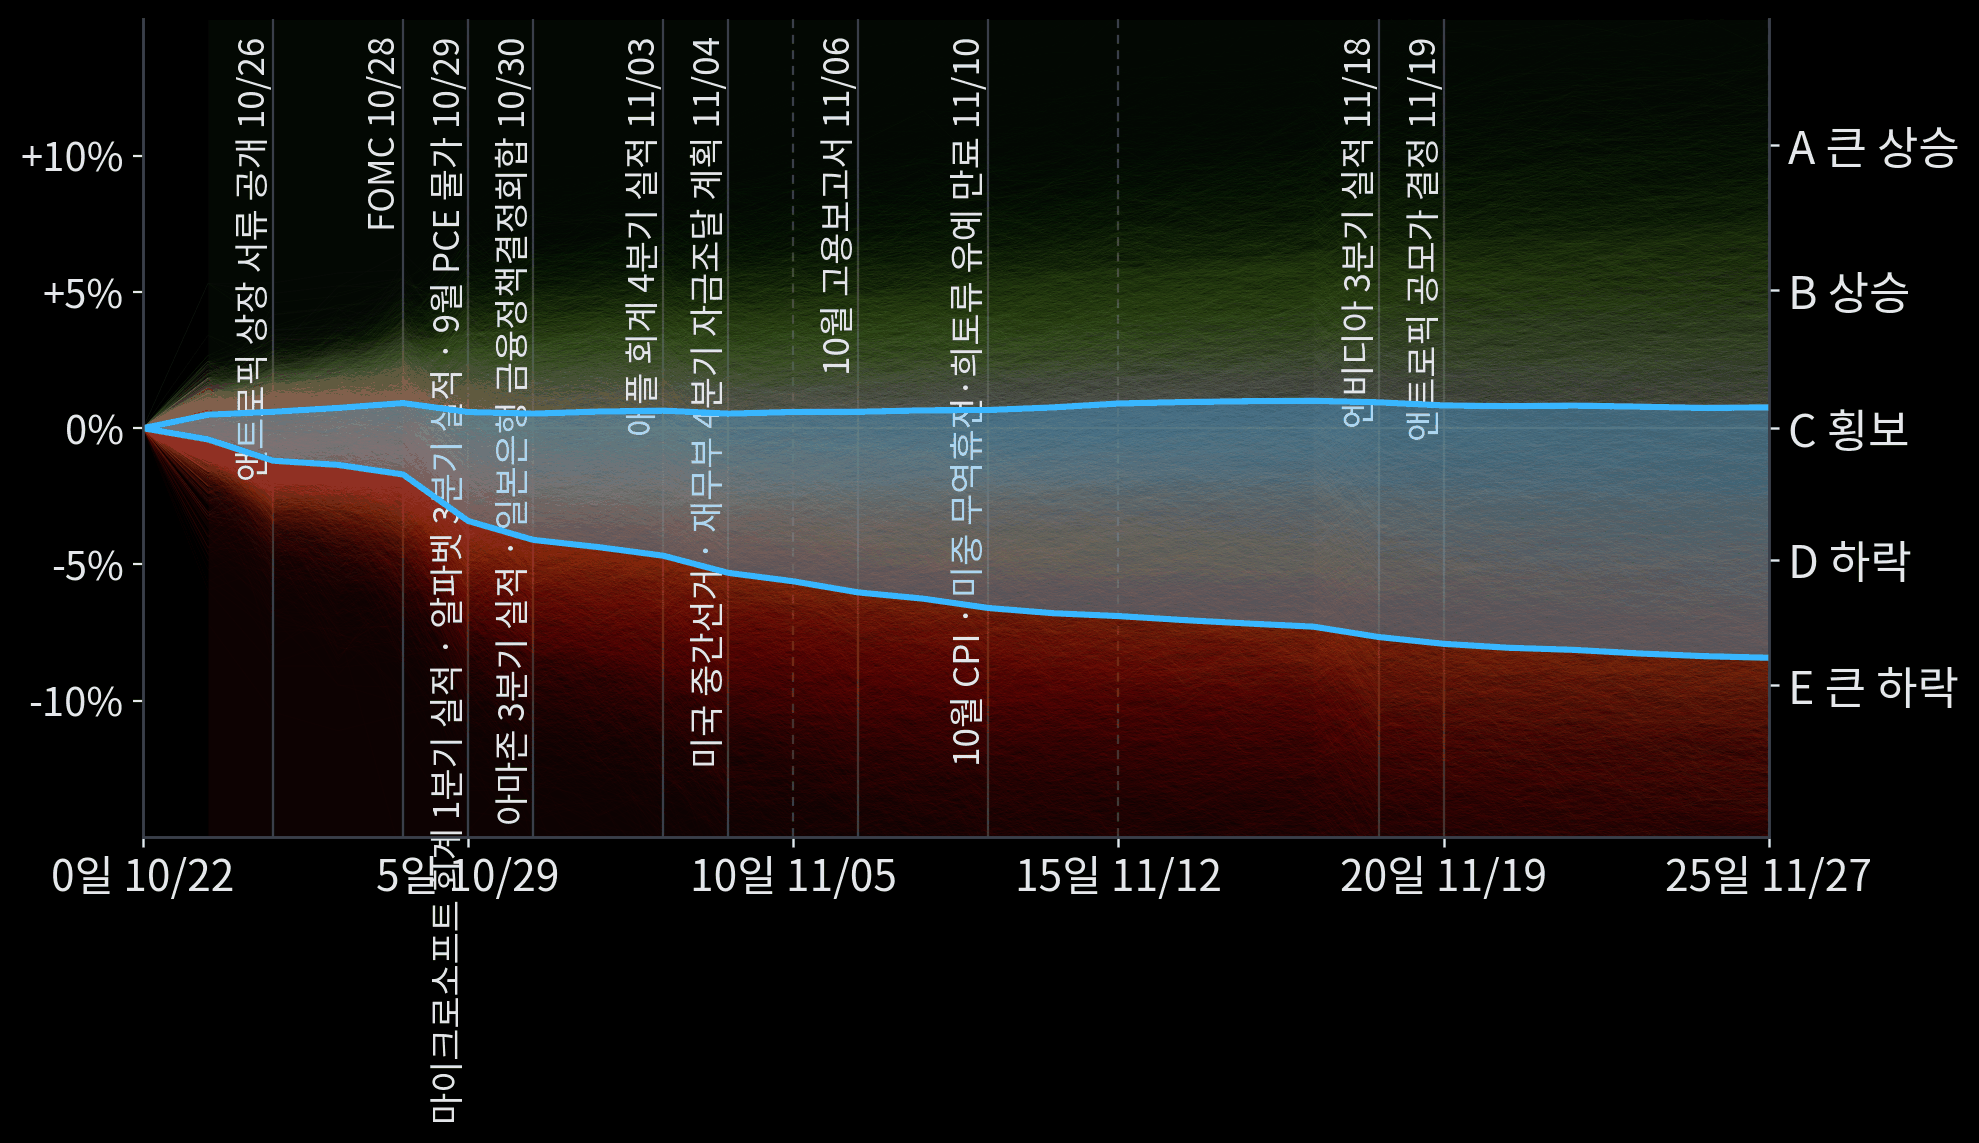
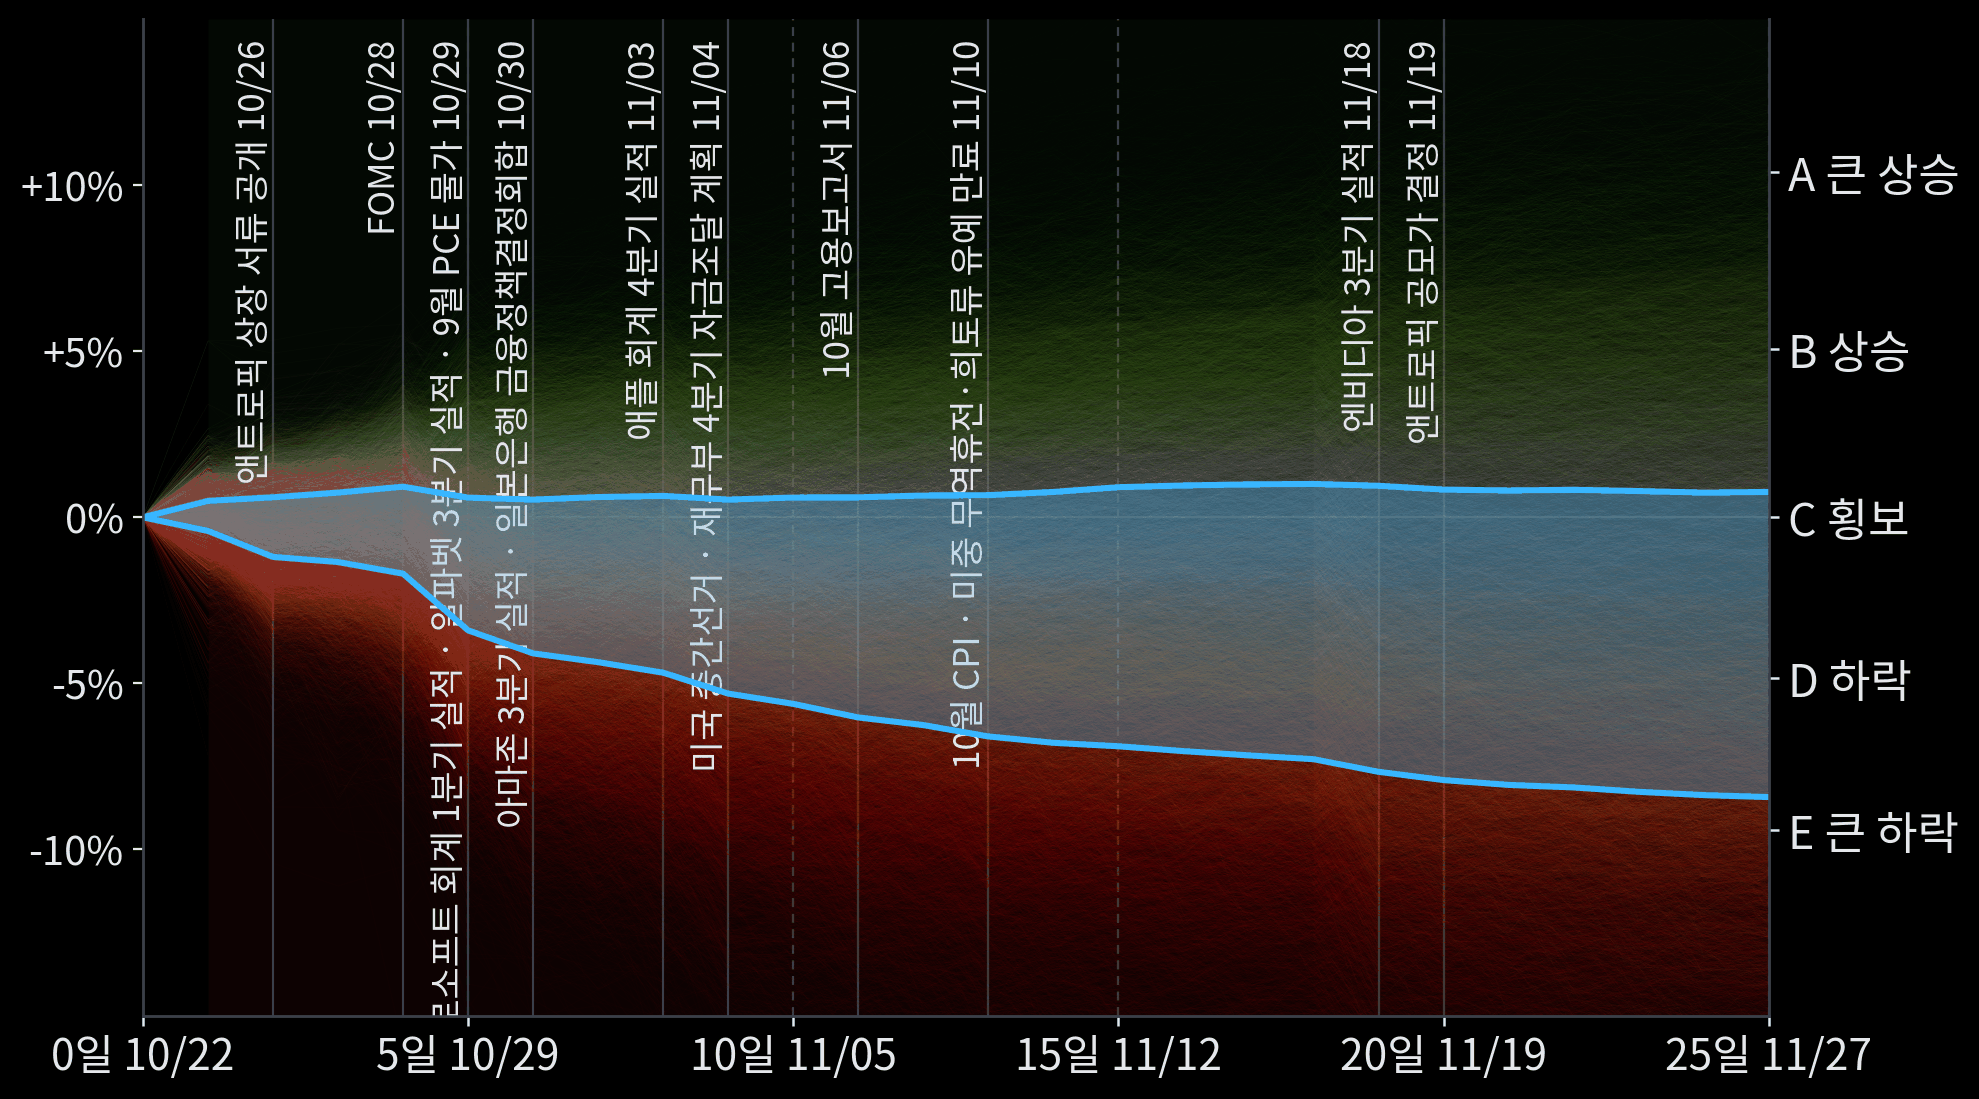
Montecarlo 그림의 그래프 영역을 날마다 같게 다시 그림
사안 이름을 축 영역 안에서 잘라 그림 크기와 축 위치가 이름 길이에 따라 바뀌지 않는다.
10/21~10/28 두 지수의 tree 그림과 되감기 프레임을 다시 만들었다.

diff --git a/r/20261022-nasdaq/report.html b/r/20261022-nasdaq/report.html
@@ -58,7 +58,7 @@
 <tr class="hit"><td class="branch">4분기 가이던스 57.3억 달러 이상</td><td class="chance">70%</td><td>반도체 수요가 유지된다는 근거가 돼 반도체주가 크게 움직이지 않는다 <span class="outcome">→ TXN의 4분기 매출 가이던스 중간값은 60.5억 달러로 예상치 57.3억 달러보다 많았다. TXN 주가는 발표 직후 보합이었다. 장 시작 전에는 TXN 주가가 1.3% 내렸다.</span></td></tr>
 </tbody>
 </table>
-<p><img src="r/20261022-nasdaq/tree-nasdaq.png?v=dea499b707" /></p>
+<p><img src="r/20261022-nasdaq/tree-nasdaq.png?v=90582f5ecf" /></p>
 <h3 id="1026월-장전-앤트로픽-상장-서류-공개-중요도-높음" data-day="2026-10-26" data-level="high"><span class="when">장전</span>앤트로픽 상장 서류 공개 <code>중요도 높음</code></h3>
 <table class="events">
 <thead><tr><th>분기</th><th>확률</th><th>전개 예상</th></tr></thead>

diff --git a/r/20261023-nasdaq/report.html b/r/20261023-nasdaq/report.html
@@ -61,7 +61,7 @@
 <tr class="hit"><td class="branch">4분기 가이던스 57.3억 달러 이상</td><td class="chance">70%</td><td>반도체 수요가 유지된다는 근거가 돼 반도체주가 크게 움직이지 않는다 <span class="outcome">→ TXN의 4분기 매출 가이던스 중간값은 60.5억 달러로 예상치 57.3억 달러보다 많았다. TXN 주가는 발표 직후 보합이었다. 장 시작 전에는 TXN 주가가 1.3% 내렸다.</span></td></tr>
 </tbody>
 </table>
-<p><img src="r/20261023-nasdaq/tree-nasdaq.png?v=801c443796" /></p>
+<p><img src="r/20261023-nasdaq/tree-nasdaq.png?v=04a03f753a" /></p>
 <h3 id="1023금-장후-앤트로픽-상장-서류-공개-중요도-높음" data-day="2026-10-23" data-level="high"><span class="when">장후</span>앤트로픽 상장 서류 공개 <code>중요도 높음</code></h3>
 <table class="events">
 <thead><tr><th>분기</th><th>확률</th><th>전개 예상</th></tr></thead>

diff --git a/r/20261024-biotech/report.html b/r/20261024-biotech/report.html
@@ -29,7 +29,7 @@
 <li><strong>QIAGEN 사모펀드 인수</strong>: 사모펀드 EQT가 진단 장비 기업 QIAGEN을 약 121억 달러에 인수하기로 했다. 신약 개발 기업이 아니어서 바이오 인수 흐름으로 보지 않는다.</li>
 </ul>
 <h2 id="다가오는-이벤트">다가오는 이벤트</h2>
-<p><img src="r/20261024-biotech/tree-biotech.png?v=510d759fae" /></p>
+<p><img src="r/20261024-biotech/tree-biotech.png?v=fbd9c17ca2" /></p>
 <h3 id="1024토-장중-모더나-esmo-공식-발표lba1-중요도-낮음" data-day="2026-10-24" data-level="low"><span class="when">10/24(토) 23:30 KST</span>모더나 ESMO 공식 발표(LBA1) <code>중요도 낮음</code></h3>
 <table class="events">
 <thead><tr><th>분기</th><th>확률</th><th>전개 예상</th></tr></thead>

diff --git a/r/20261028-biotech/report.html b/r/20261028-biotech/report.html
@@ -28,7 +28,7 @@
 <li><strong>미 재무부의 중국 바이오 투자 제한 규칙</strong>: 최종 규칙은 2027년 3월에 나온다. 단순 기술 도입 계약은 대상이 아니어서 이번 달 바이오 기업의 이익으로 전달되는 경로가 약하다.</li>
 </ul>
 <h2 id="다가오는-이벤트">다가오는 이벤트</h2>
-<p><img src="r/20261028-biotech/tree-biotech.png?v=3ede4ed70e" /></p>
+<p><img src="r/20261028-biotech/tree-biotech.png?v=a8837497a3" /></p>
 <h3 id="1028수-장중-fomc-중요도-낮음" data-day="2026-10-28" data-level="low"><span class="when">10/29(목) 03:00 KST</span>FOMC <code>중요도 낮음</code></h3>
 <table class="events">
 <thead><tr><th>분기</th><th>확률</th><th>전개 예상</th></tr></thead>

diff --git a/r/20261021-nasdaq/report.html b/r/20261021-nasdaq/report.html
@@ -33,7 +33,7 @@
 <li><strong>엔화 약세와 일본 재무성의 시장 개입 가능성</strong>: 일본은행의 10월 금리 인상 가능성이 낮고, 개입만으로 엔화를 빌린 투자자가 한꺼번에 자산을 판 사례는 없었다.</li>
 </ul>
 <h2 id="다가오는-이벤트">다가오는 이벤트</h2>
-<p><img src="r/20261021-nasdaq/tree-nasdaq.png?v=bcdb61d0a2" /></p>
+<p><img src="r/20261021-nasdaq/tree-nasdaq.png?v=1263095bdf" /></p>
 <h3 id="2026-10-21수-메타-3분기-실적-중요도-높음" data-day="2026-10-21" data-level="high"><span class="when">장후</span>메타 3분기 실적 <code>중요도 높음</code></h3>
 <table class="events">
 <thead><tr><th>분기</th><th>확률</th><th>전개 예상</th></tr></thead>

diff --git a/r/20261022-biotech/report.html b/r/20261022-biotech/report.html
@@ -37,7 +37,7 @@
 <tr><td class="branch">AI 설비투자 축소·조달 우려 확인</td><td class="chance">35%</td><td>AI 기업의 빚 불안이 커져 바이오 주가도 함께 하락한다</td></tr>
 </tbody>
 </table>
-<p><img src="r/20261022-biotech/tree-biotech.png?v=fe202206c4" /></p>
+<p><img src="r/20261022-biotech/tree-biotech.png?v=623e873eeb" /></p>
 <h3 id="1024토-장중-모더나-interpath-001-3상-esmo-세부-결과-중요도-높음" data-day="2026-10-24" data-level="high"><span class="when">장중</span>모더나 INTerpath-001 3상 ESMO 세부 결과 <code>중요도 높음</code></h3>
 <table class="events">
 <thead><tr><th>분기</th><th>확률</th><th>전개 예상</th></tr></thead>

diff --git a/r/20261026-nasdaq/report.html b/r/20261026-nasdaq/report.html
@@ -33,7 +33,7 @@
 <li><strong>메타의 의결권 없는 주식 배당</strong>: 새 주식은 내년 1월에야 나오므로 이번 달 주가에 주는 영향은 작다.</li>
 </ul>
 <h2 id="다가오는-이벤트">다가오는 이벤트</h2>
-<p><img src="r/20261026-nasdaq/tree-nasdaq.png?v=a40e41abae" /></p>
+<p><img src="r/20261026-nasdaq/tree-nasdaq.png?v=db5bac2fc1" /></p>
 <h3 id="1026월-장전-앤트로픽-상장-서류-공개-중요도-높음" data-day="2026-10-26" data-level="high"><span class="when">장전</span>앤트로픽 상장 서류 공개 <code>중요도 높음</code></h3>
 <table class="events">
 <thead><tr><th>분기</th><th>확률</th><th>전개 예상</th></tr></thead>

diff --git a/r/20261021-biotech/report.html b/r/20261021-biotech/report.html
@@ -28,7 +28,7 @@
 <li><strong>연방정부 임시예산 만료</strong>: 만료일이 12월 11일로 한 달 뒤이고, 의회가 두 번째 임시예산을 처리할 가능성이 높다.</li>
 </ul>
 <h2 id="다가오는-이벤트">다가오는 이벤트</h2>
-<p><img src="r/20261021-biotech/tree-biotech.png?v=f400abc56a" /></p>
+<p><img src="r/20261021-biotech/tree-biotech.png?v=40f2cef03d" /></p>
 <h3 id="2026-10-21수-메타-3분기-실적-중요도-낮음" data-day="2026-10-21" data-level="low"><span class="when">장후</span>메타 3분기 실적 <code>중요도 낮음</code></h3>
 <table class="events">
 <thead><tr><th>분기</th><th>확률</th><th>전개 예상</th></tr></thead>

diff --git a/r/20261023-biotech/report.html b/r/20261023-biotech/report.html
@@ -35,7 +35,7 @@
 <tr><td class="branch">AI 설비투자 축소·조달 우려 확인</td><td class="chance">35%</td><td>AI 기업의 빚 불안이 커져 바이오 주가도 함께 하락한다</td></tr>
 </tbody>
 </table>
-<p><img src="r/20261023-biotech/tree-biotech.png?v=7e6751be20" /></p>
+<p><img src="r/20261023-biotech/tree-biotech.png?v=c47a630aa9" /></p>
 <h3 id="1024토-장중-모더나-esmo-공식-발표lba1-중요도-낮음" data-day="2026-10-24" data-level="low"><span class="when">장중</span>모더나 ESMO 공식 발표(LBA1) <code>중요도 낮음</code></h3>
 <table class="events">
 <thead><tr><th>분기</th><th>확률</th><th>전개 예상</th></tr></thead>

diff --git a/r/20261024-nasdaq/report.html b/r/20261024-nasdaq/report.html
@@ -46,7 +46,7 @@
 <tr><td class="branch">상장 연기 발표</td><td class="chance">13%</td><td>투자자가 AI 기업의 자금 조달이 어려워졌다고 받아들여 주가가 하락한다</td></tr>
 </tbody>
 </table>
-<p><img src="r/20261024-nasdaq/tree-nasdaq.png?v=dcab030291" /></p>
+<p><img src="r/20261024-nasdaq/tree-nasdaq.png?v=056dac211d" /></p>
 <h3 id="1026월-장전-앤트로픽-상장-서류-공개-중요도-높음" data-day="2026-10-26" data-level="high"><span class="when">장전</span>앤트로픽 상장 서류 공개 <code>중요도 높음</code></h3>
 <table class="events">
 <thead><tr><th>분기</th><th>확률</th><th>전개 예상</th></tr></thead>

diff --git a/r/20261026-biotech/report.html b/r/20261026-biotech/report.html
@@ -38,7 +38,7 @@
 <tr><td class="branch">하위군 불일치·안전성 약점 공개</td><td class="chance">10%</td><td>남아 있던 기대가 사라져 모더나가 다시 크게 하락하고 바이오 지수도 하락한다</td></tr>
 </tbody>
 </table>
-<p><img src="r/20261026-biotech/tree-biotech.png?v=deed56568b" /></p>
+<p><img src="r/20261026-biotech/tree-biotech.png?v=e12894de08" /></p>
 <h3 id="1028수-장중-fomc-중요도-낮음" data-day="2026-10-28" data-level="low"><span class="when">10/29(목) 03:00 KST</span>FOMC <code>중요도 낮음</code></h3>
 <table class="events">
 <thead><tr><th>분기</th><th>확률</th><th>전개 예상</th></tr></thead>

diff --git a/r/20261027-biotech/report.html b/r/20261027-biotech/report.html
@@ -28,7 +28,7 @@
 <li><strong>12월 연방정부 셧다운 가능성</strong>: 임시예산이 12월 11일에 끝나므로 결과가 한 달 뒤에 나온다.</li>
 </ul>
 <h2 id="다가오는-이벤트">다가오는 이벤트</h2>
-<p><img src="r/20261027-biotech/tree-biotech.png?v=edfb0296bf" /></p>
+<p><img src="r/20261027-biotech/tree-biotech.png?v=8fec819f4b" /></p>
 <h3 id="1028수-장중-fomc-중요도-낮음" data-day="2026-10-28" data-level="low"><span class="when">10/29(목) 03:00 KST</span>FOMC <code>중요도 낮음</code></h3>
 <table class="events">
 <thead><tr><th>분기</th><th>확률</th><th>전개 예상</th></tr></thead>
